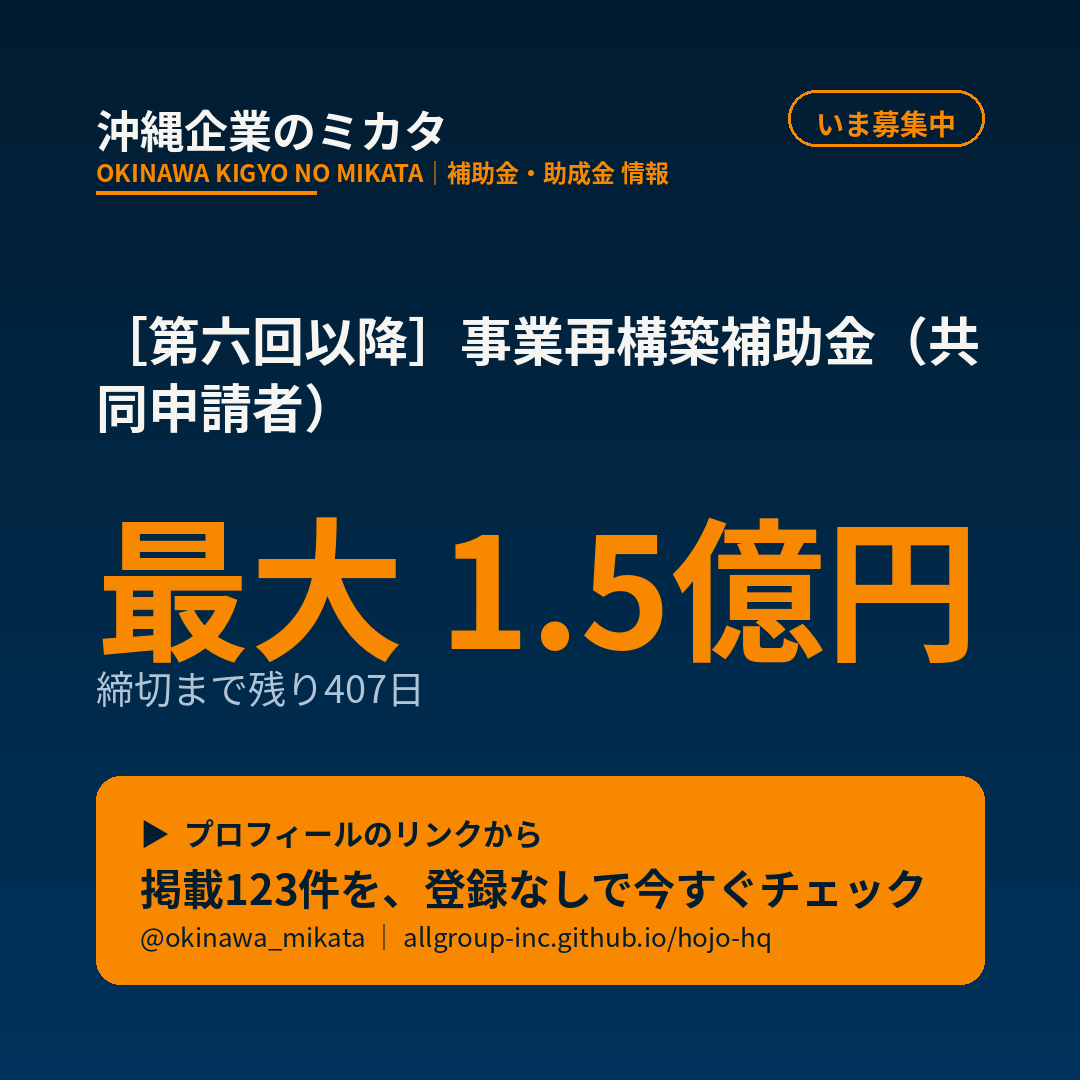
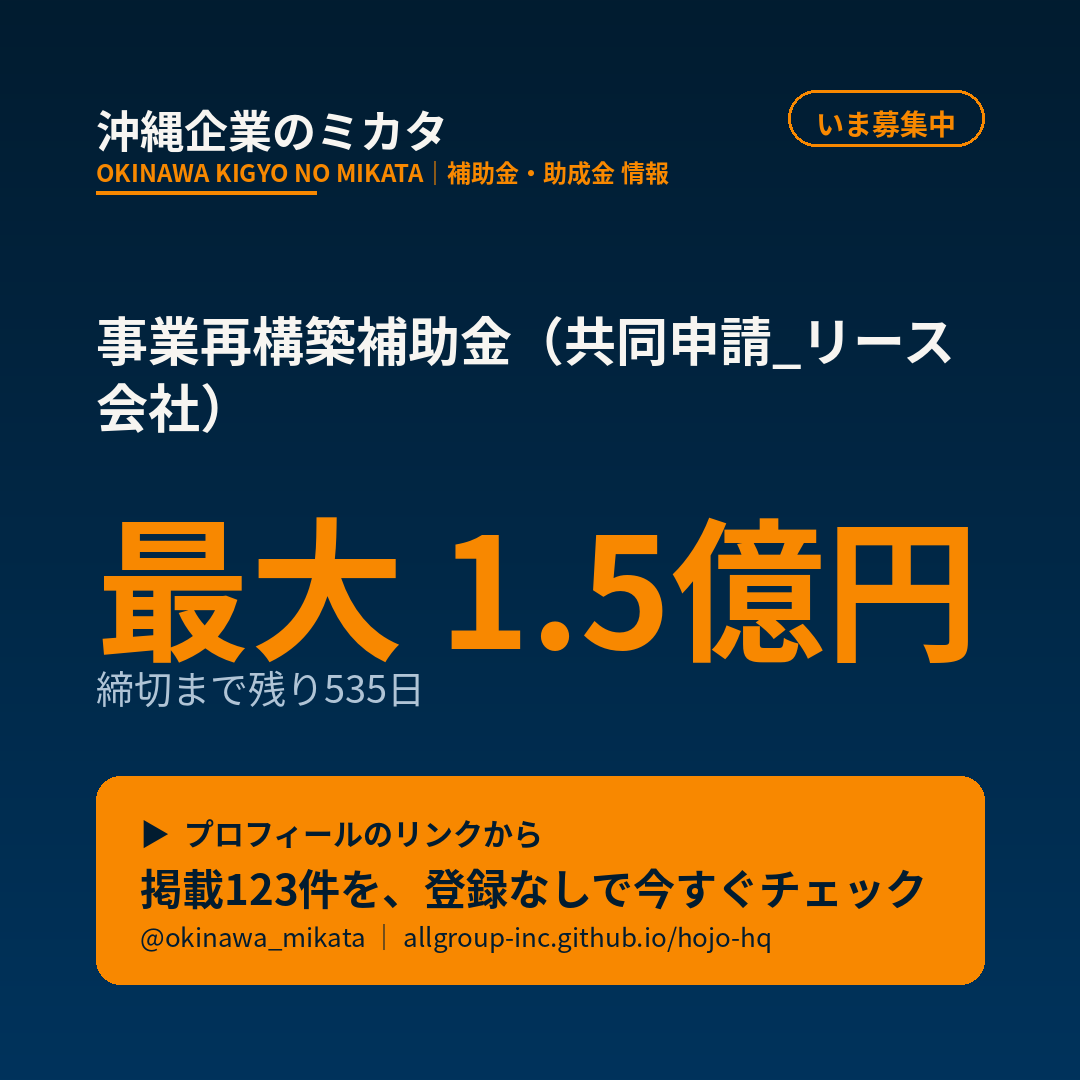
auto: update subsidies & images 2026-11-19 05:37

Changed region(s): [[0.0917, 0.275, 0.9167, 0.4278], [0.3056, 0.6111, 0.3667, 0.6722]]

diff --git a/site/ig/index.html b/site/ig/index.html
@@ -102,10 +102,10 @@ border-radius:10px;text-decoration:none;}
 </div>
 </article>
 <article class="card" id="s8">
-<h2>［第六回以降］事業再構築補助金（共同申請者）</h2>
-<p class="meta"><span>締切 2027-12-31(残り407日)</span><span>上限 1.5億円（150,000,000円）</span></p>
+<h2>事業再構築補助金（共同申請_リース会社）</h2>
+<p class="meta"><span>締切 2028-05-07(残り535日)</span><span>上限 1.5億円（150,000,000円）</span></p>
 <div class="btns">
-<a class="src" href="https://www.jgrants-portal.go.jp/subsidy/a0W2x000007Cos5EAC" target="_blank" rel="noopener" data-ev="ig_hub_source_click">公募ページ(原文)を開く</a>
+<a class="src" href="https://www.jgrants-portal.go.jp/subsidy/a0W5h00000UaiqSEAR" target="_blank" rel="noopener" data-ev="ig_hub_source_click">公募ページ(原文)を開く</a>
 <a class="shindan" href="../?utm_source=instagram&utm_medium=social&utm_campaign=ig_hub#match" data-ev="ig_hub_shindan_click">うちで使える?30秒診断</a>
 </div>
 </article>

diff --git a/posts/launch/03_seido.md b/posts/launch/03_seido.md
@@ -1,29 +1,29 @@
 # 投稿3｜制度紹介(3/5・amount枠・締切30日以上先)
 
 ## 画像に載せる文言
-- タイトル: ［第六回以降］事業再構築補助金（共同申請者）
-- サブ: 締切まで残り407日
+- タイトル: 事業再構築補助金（共同申請_リース会社）
+- サブ: 締切まで残り535日
 - 数字: 最大 1.5億円
 - バッジ: いま募集中
 - テンプレ: number
 
 ## キャプション
 上限は最大 1.5億円。この規模の募集は、そう多くありません。
-【募集中】［第六回以降］事業再構築補助金（共同申請者）
-🗓 締切：2027-12-31（残り407日）
+【募集中】事業再構築補助金（共同申請_リース会社）
+🗓 締切：2028-05-07（残り535日）
 💰 上限 1.5億円（150,000,000円）
 🏝 実施主体：要確認
 沖縄の事業者も、要件に合えば申請できます。準備の時間も取りやすい制度です。
 経理担当や顧問の先生に送っておくと、相談が早く進みます。
 本文のURLはタップできません。プロフィールのリンクを開くと、この投稿の制度ページへそのまま飛べます。
 申請できるかは原文で確認を👇
-https://www.jgrants-portal.go.jp/subsidy/a0W2x000007Cos5EAC
+https://www.jgrants-portal.go.jp/subsidy/a0W5h00000UaiqSEAR
 ※要件・締切・金額は必ず原文の公募要領でご確認ください。
 
 #沖縄補助金 #沖縄助成金 #沖縄経営者 #中小企業支援 #沖縄企業のミカタ
 
 ## 出典
-https://www.jgrants-portal.go.jp/subsidy/a0W2x000007Cos5EAC
+https://www.jgrants-portal.go.jp/subsidy/a0W5h00000UaiqSEAR
 
 ## 出荷ゲート
 - gates: accuracy-check, deadline-alert, humanizer
